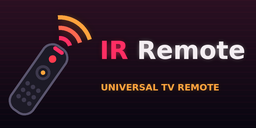
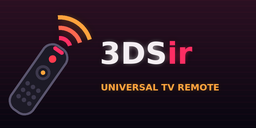
Name the project 3DSir, like the repo
App title, CIA title (CTR-H-3DIR), banner, build outputs (3dsir.3dsx /
3dsir.cia), release files (3DSir.3dsx / 3DSir.cia) and the SD folder
(sdmc:/3ds/3dsir/).

Claude-Session: https://claude.ai/code/session_01DMCZKSo4WURbBhfMa8v52o

Changed region(s): [[0.375, 0.3125, 0.9688, 0.5312]]

diff --git a/meta/make_art.py b/meta/make_art.py
@@ -116,14 +116,14 @@ def banner(path, font_path):
 	base.alpha_composite(scanlines(W, H, 6 * S, 26))
 	base.alpha_composite(remote_and_beams((W, H), W * 0.15, H * 0.62, H * 0.62))
 
-	font = ImageFont.truetype(font_path, 25 * S)
+	font = ImageFont.truetype(font_path, 30 * S)
 	small = ImageFont.truetype(font_path, 9 * S)
 	tx = int(W * 0.39)
 	title = Image.new("RGBA", (W, H), (0, 0, 0, 0))
 	td = ImageDraw.Draw(title)
-	td.text((tx, H * 0.28), "IR", font=font, fill=IR + (255,))
-	px = tx + td.textlength("IR ", font=font)
-	td.text((px, H * 0.28), "Remote", font=font, fill=TEXT + (255,))
+	td.text((tx, H * 0.28), "3DS", font=font, fill=TEXT + (255,))
+	px = tx + td.textlength("3DS", font=font)
+	td.text((px, H * 0.28), "ir", font=font, fill=IR + (255,))
 	td.text((tx + S, H * 0.64), "UNIVERSAL TV REMOTE", font=small, fill=AMBER + (255,))
 	base.alpha_composite(title.filter(ImageFilter.GaussianBlur(3 * S)))
 	base.alpha_composite(title)

diff --git a/source/main.c b/source/main.c
@@ -9,7 +9,7 @@
 #include "irenc.h"
 #include "irfile.h"
 
-#define ROOT_DIR "sdmc:/3ds/irremote"
+#define ROOT_DIR "sdmc:/3ds/3dsir"
 #define IRU_MAX_TRANSFER 0x800
 #define LIST_ROWS 26
 

diff --git a/README.md b/README.md
@@ -1,4 +1,4 @@
-# 3DS IR Remote
+# 3DSir
 
 An experiment to turn the 3DS infrared port into a universal TV remote.
 
@@ -90,13 +90,13 @@ transmission off after about 10 ms. Wait for `GetSendFinishedEvent` and poll
 
 ## Download
 
-**[Latest release](https://github.com/Doridian/3DSir/releases/latest)**: get `irremote.3dsx` or `irremote.cia`.
+**[Latest release](https://github.com/Doridian/3DSir/releases/latest)**: get `3DSir.3dsx` or `3DSir.cia`.
 CI builds every `v*` tag into a release:
 
 | File | For |
 | --- | --- |
-| `irremote.3dsx` | The Homebrew Launcher. |
-| `irremote.cia` | The same build, to install to the HOME menu (e.g. with FBI). |
+| `3DSir.3dsx` | The Homebrew Launcher. |
+| `3DSir.cia` | The same build, to install to the HOME menu (e.g. with FBI). |
 
 Builds of every commit are attached to its CI run as artifacts.
 
@@ -108,16 +108,16 @@ Build with devkitARM:
 docker run --rm -v "$PWD":/src:Z -w /src docker.io/devkitpro/devkitarm make
 ```
 
-`make cia` also builds `irremote.cia`; it needs
+`make cia` also builds `3dsir.cia`; it needs
 [makerom](https://github.com/3DSGuy/Project_CTR) and
 [bannertool](https://github.com/diasurgical/bannertool) on the `PATH` (or `MAKEROM=` / `BANNERTOOL=`).
 The icon, HOME menu banner and jingle are drawn by `meta/make_art.py`.
 
-Copy `irremote.3dsx` to `sdmc:/3ds/` and launch it from the Homebrew Launcher
-(Luma3DS gives it `ir:u` access), or install `irremote.cia` and launch it from
+Copy `3DSir.3dsx` (or a local build's `3dsir.3dsx`) to `sdmc:/3ds/` and launch it from the Homebrew Launcher
+(Luma3DS gives it `ir:u` access), or install `3DSir.cia` and launch it from
 the HOME menu.
 
-Put Flipper Zero `.ir` files in `sdmc:/3ds/irremote/`. Subfolders work, so the
+Put Flipper Zero `.ir` files in `sdmc:/3ds/3dsir/`. Subfolders work, so the
 whole [Flipper-IRDB](https://github.com/Lucaslhm/Flipper-IRDB) can go there.
 The Flipper firmware's universal `tv.ir`
 (`applications/main/infrared/resources/infrared/assets/tv.ir`) is the most
